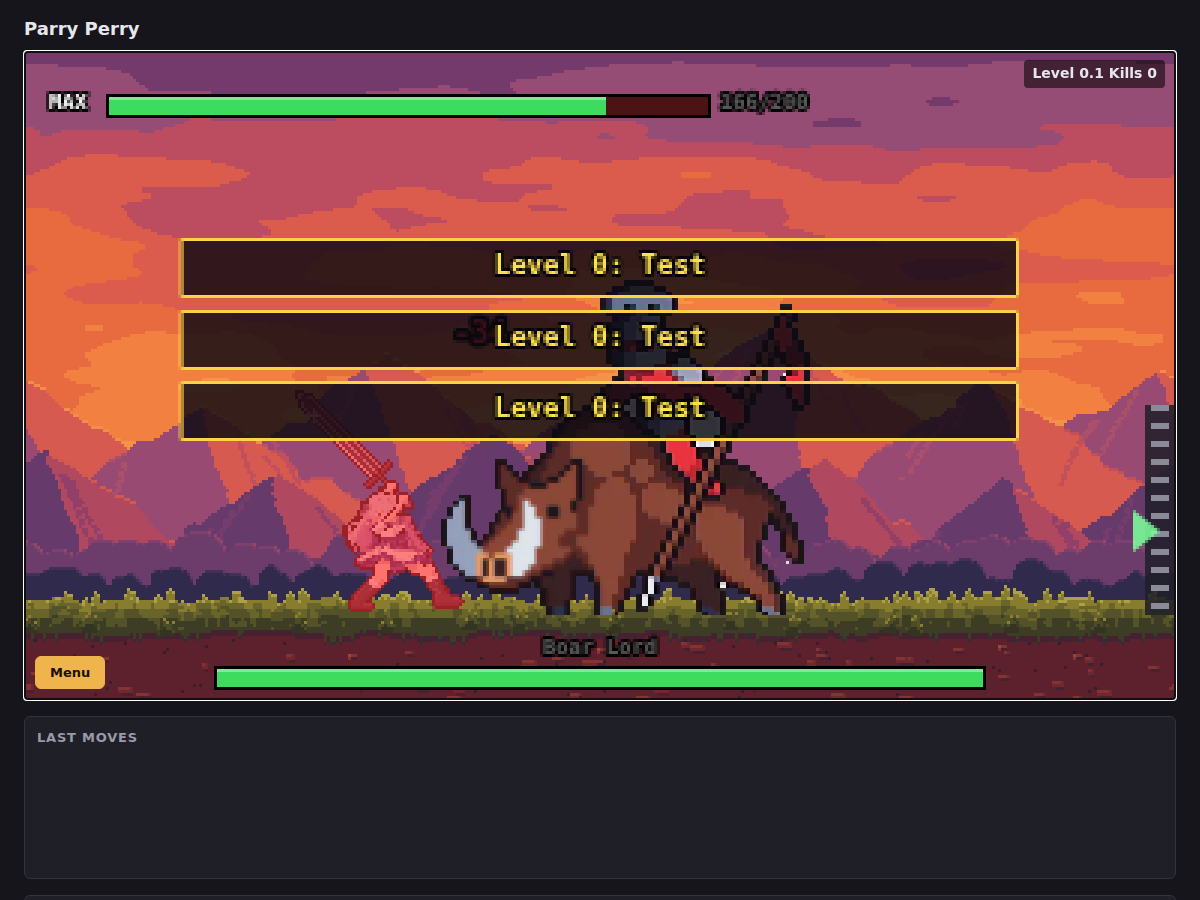
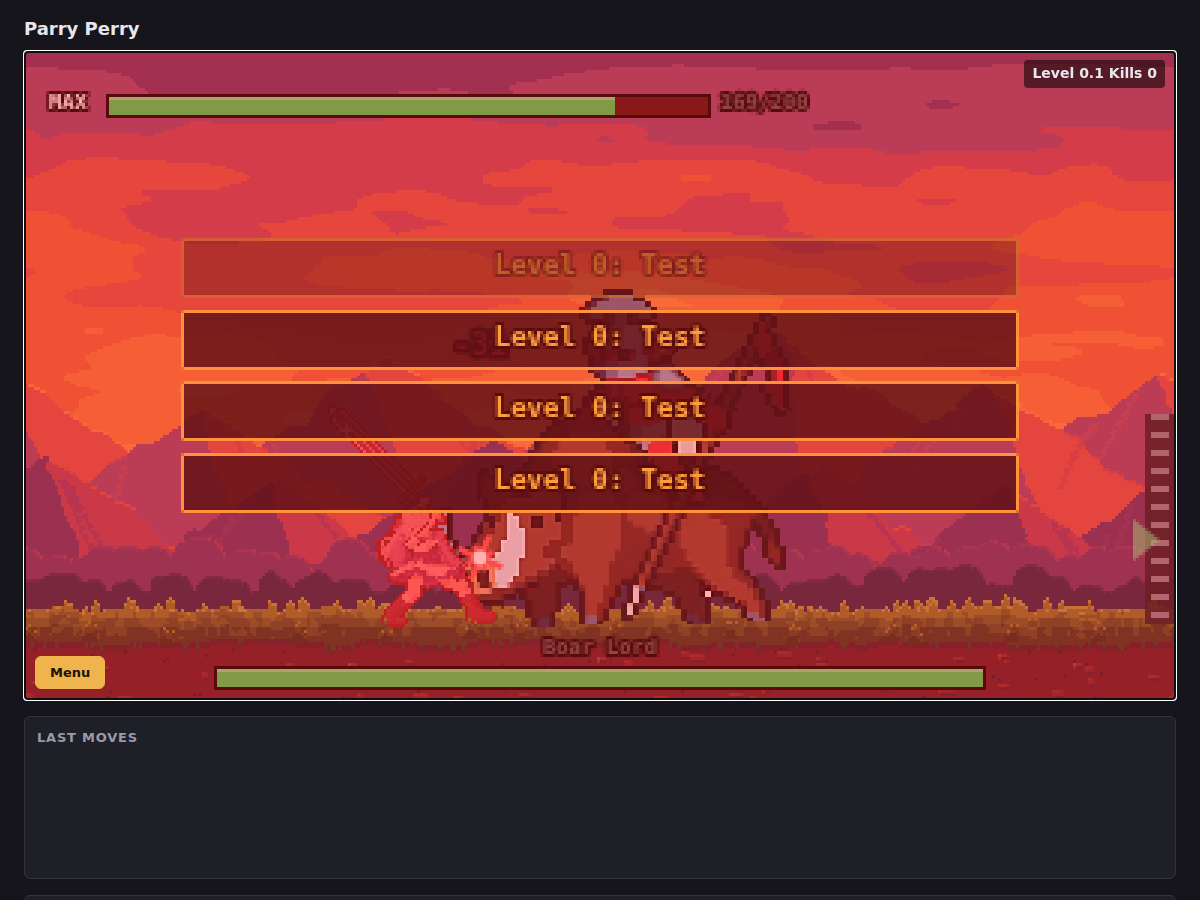
Hit feedback and a title screen (st80)
Claude-Session: https://claude.ai/code/session_01CvMu3aZWGEpLKmkyGEtNih

diff --git a/web/game.js b/web/game.js
@@ -879,6 +879,23 @@
   const FLOAT_MS = 900;
   const GREEN = '#3dff6e';
   function floater(wx, wy, text, color) { floaters.push({ wx, wy, text, color, t0: clock }); }
+  // ---- hit feedback: a brief freeze on impact (hit-stop), a starburst and sparks where it lands, a screen flash and shake on big hits
+  let freeze = 0, screenFlash = null, beamTick = false;
+  const flashes = [];                                            // {wx, wy, t0, ms, r, c}: starbursts
+  const hitStop = ms => { freeze = Math.min(160, Math.max(freeze, ms)); };
+  const shakeFor = (ms, amp) => { if (!rumble || rumble.amp * (1 - (clock - rumble.t0) / rumble.ms) < amp) rumble = { t0: clock, ms, amp }; };
+  function impact(wx, wy, dmg, color, killed) {
+    const big = dmg >= 100 || killed, mid = dmg >= 30;
+    flashes.push({ wx, wy, t0: clock, ms: big ? 260 : mid ? 200 : 150, r: big ? 26 : mid ? 18 : 12, c: color || '#fff6c0' });
+    burst(wx, wy, big ? 16 : mid ? 10 : 6, [color || '#fff6c0', '#ffd24a', '#ffffff']);
+    hitStop(big ? 130 : mid ? 80 : 45);
+    if (big) { screenFlash = { c: '#ffffff', a: 0.4, t0: clock, ms: 120 }; shakeFor(220, 3); }
+    else if (mid) shakeFor(140, 1.5);
+  }
+  function herHitFx() {                                          // she is hurt: a short freeze, a red flash, a shake and a red starburst
+    hitStop(100); shakeFor(200, 2.5); screenFlash = { c: '#ff2020', a: 0.35, t0: clock, ms: 200 };
+    flashes.push({ wx: bodyX(), wy: herY() + 22, t0: clock, ms: 220, r: 20, c: '#ff6060' });
+  }
   function hurtEnemy(e, dmg) {
     if (!alive(e)) return;
     aggro(e, false);                                  // being hit wakes a patrolling enemy, even for 0 damage
@@ -887,6 +904,7 @@
     const b = hurtOf(e);
     if (b) floater((b[0] + b[2]) / 2, b[3] + 4, '-' + dmg, RED);
     if (!e.tint || clock >= e.tint.until) e.tint = { color: RED, alpha: 0.55, until: clock + 110 };
+    if (b && !beamTick) impact((b[0] + b[2]) / 2, (b[1] + b[3]) / 2, dmg, null, e.hp <= 0);
     if (e.hp <= 0) kill(e);
   }
   const cheats = { invincible: false, infinite: false, nopit: false };   // set from the Cheats menu (L1+R1+L2+R2 in the pause menu reveals it)
@@ -967,7 +985,7 @@
       e.tint = { color: '#a0f', alpha: 0.4, until: clock + 400 };
     }
     const was = alive(e);
-    hurtEnemy(e, BEAM_DMG[b.kind] || 0);
+    beamTick = true; hurtEnemy(e, BEAM_DMG[b.kind] || 0); beamTick = false;
     if (was && !alive(e)) lootGem(e.x, 'super', e.fy);                 // killed by a beam: a Super Gem
     const push = BEAM_PUSH[b.kind] || 0;
     if (push && alive(e)) { e.x += b.face * push; e.base += b.face * push; e.shoved = clock; }   // shoved away along the beam
@@ -1019,6 +1037,7 @@
   function hint(text) { if (clock - lastHint > 2500) { lastHint = clock; banners.push({ title: text, t0: clock, ms: 2200 }); } }
 
   function startLevel(n, custom) {
+    freeze = 0; screenFlash = null; flashes.length = 0;
     story = null; storyAt = null;                    // any story page still open (a test hook starting a level) is dropped
     const def = custom || LV.levels[n - 1];
     if (!def) return;
@@ -1278,6 +1297,7 @@
           shots.splice(i, 1);
         } else if (clock >= invuln && !stun) {                     // a hit: damage, a short red flash and a small flinch
           hurtHer(sh.dmg || SHOT_DMG);
+          herHitFx();
           const p = push(14, 180); slide = newSlide(p, dir); lastPushT = clock;
           tint = { color: RED, alpha: 0.6, until: clock + 220 }; invuln = clock + 500; hits++;
           burst(sh.x, sh.y, 8, ['#ff2b2b', '#8fd0ff']);
@@ -1328,6 +1348,7 @@
     for (const e of enemies) { const hb = alive(e) && hurtOf(e); if (hb && distBox(cx, cy, hb) <= BOMB_R) { e.shoved = clock; hurtEnemy(e, BOMB_DMG); } }
     if (!rainbowOn() && distBox(cx, cy, herBox()) <= BOMB_R) {
       hurtHer(BOMB_DMG);
+      herHitFx();
       tint = { color: RED, alpha: 0.6, until: clock + 300 }; invuln = Math.max(invuln, clock + 500); hits++;
     }
     crateBlast(cx, cy, BOMB_R);
@@ -1910,6 +1931,7 @@
     e.push = { v: p.v * (e.x >= bodyX() ? 1 : -1), a: p.a };
     e.tint = { color: WHITE, alpha: 0.75, until: clock + ms };
     parries++;
+    flashes.push({ wx: (bodyX() + e.x) / 2, wy: herY() + 24, t0: clock, ms: 240, r: 22, c: '#bfe8ff' }); hitStop(90); screenFlash = { c: '#ffffff', a: 0.3, t0: clock, ms: 110 };
   }
   const KNOCK_UP = 5;
   const newSlide = (p, dir) => ({ v: p.v * dir, a: p.a, y: 0, vy: -Math.sqrt(2 * 0.0018 * KNOCK_UP) });   // a block or a shot hit: slid back and up KNOCK_UP px
@@ -1925,6 +1947,7 @@
     tint = { color: RED, alpha: 0.6, until: clock + ms };
     invuln = clock + ms + 400;
     hits++;
+    herHitFx();
     hurtHer(((AT && AT.dmg) || ENEMY_DMG[e.type] || EN[e.type].ai.dmg || 10) * (e.dmgMul || 1));
     if (hp <= 0) { stun.until = clock + KO_MS; floater(bodyX(), herY() + herTop() + 18, 'K.O.', RED); if (typeof triggerGameOver === 'function') triggerGameOver(); }
   }
@@ -1933,6 +1956,7 @@
     slide = newSlide(p, dir); lastPushT = clock;
     tint = { color: WHITE, alpha: 0.75, until: clock + 150 };
     blocks++;
+    flashes.push({ wx: bodyX() + hf() * 12, wy: herY() + 22, t0: clock, ms: 160, r: 12, c: '#ffffff' }); hitStop(40);
   }
   function stepStun(dt) {
     x += stun.v * dt;
@@ -2088,6 +2112,7 @@
     drawBeam(sx, sy);
     drawExplosions(sx, sy);
     drawParticles(sx, sy);
+    drawFlashes(sx, sy);
     drawShots(sx, sy);
     g.save();                                                     // the foreground grass is cut away over the pits
     if (curMap && curMap.pits.length) { g.beginPath(); g.rect(0, 0, V.w, V.h); for (const p of curMap.pits) g.rect(Math.round(p.x0 + sx), 0, p.x1 - p.x0, V.h); g.clip('evenodd'); }
@@ -2098,6 +2123,7 @@
     drawMeters();
     drawFloaters(sx, sy);
     drawBanners();
+    if (screenFlash) { const a = (clock - screenFlash.t0) / screenFlash.ms; if (a >= 1) screenFlash = null; else { g.globalAlpha = screenFlash.a * (1 - a); g.fillStyle = screenFlash.c; g.fillRect(0, 0, V.w, V.h); g.globalAlpha = 1; } }
     if (fadeUntil > clock) { g.globalAlpha = Math.min(1, (fadeUntil - clock) / FADE_MS); g.fillStyle = '#000'; g.fillRect(0, 0, V.w, V.h); g.globalAlpha = 1; }
     if (showBoxes) drawBoxes(sx, sy);
   }
@@ -2178,6 +2204,18 @@
       g.fillStyle = it && it.kind === 'Button' ? '#ff9f43' : '#ffd24a'; g.beginPath(); g.arc(X, Y, 8, 0, Math.PI * 2); g.fill();
       g.font = 'bold 7px monospace'; g.textAlign = 'center'; g.textBaseline = 'middle'; g.fillStyle = '#2a1a00';
       g.fillText(it && it.kind === 'Button' ? it.id : 'NEW', X, Y + 0.5);
+      g.restore();
+    }
+  }
+  function drawFlashes(sx, sy) {
+    for (let i = flashes.length - 1; i >= 0; i--) {
+      const f = flashes[i], a = (clock - f.t0) / f.ms;
+      if (a >= 1) { flashes.splice(i, 1); continue; }
+      const X = Math.round(f.wx + sx), Y = Math.round(groundY(sy) - f.wy), r = f.r * (0.4 + 0.6 * Math.min(1, a * 3)), inner = r * 0.25;
+      g.save(); g.globalAlpha = 1 - a; g.strokeStyle = f.c; g.lineWidth = a < 0.35 ? 2 : 1; g.beginPath();
+      for (let k = 0; k < 8; k++) { const ang = k * Math.PI / 4 + 0.4, len = k % 2 ? r * 0.6 : r; g.moveTo(X + Math.cos(ang) * inner, Y + Math.sin(ang) * inner); g.lineTo(X + Math.cos(ang) * len, Y + Math.sin(ang) * len); }
+      g.stroke();
+      if (a < 0.4) { g.fillStyle = '#fff'; g.beginPath(); g.arc(X, Y, r * 0.3 * (1 - a), 0, 7); g.fill(); }
       g.restore();
     }
   }
@@ -2558,6 +2596,7 @@
     x += shift;
   }
   function tickLevel(t, dt) {
+    if (freeze > 0) { freeze -= dt; readButtons(t); draw(); hud(); return; }   // (presses made during the freeze are still read)      // hit-stop: the world holds still for a moment
     clock += dt;                                      // game time: it does not run while a menu is open
     if (storyAt !== null && clock >= storyAt) { storyAt = null; P.state.story.double = true; playStory('double', () => { paused = false; }); return; }
     if (pitFall) {                                    // she fell into a pit: the rest of the world goes on while she drops out of sight
@@ -2682,7 +2721,7 @@
     if (assetsReady) {
       if (story) { clock += dt; drawStory(); }
       else if (screen === 'level') { if (!paused && !gameOver && !devOpen) tickLevel(t, dt); }
-      else { clock += dt; stepEffects(dt); drawOverworld(); hud(); }
+      else { clock += dt; stepEffects(dt); if (screen === 'title') drawTitle(); else drawOverworld(); hud(); }
     }
     requestAnimationFrame(frame);
   }
@@ -2690,6 +2729,41 @@
   // ---- the overworld: five level nodes on a path; a level opens when the one before it is beaten
   const OW_NODES = [[52, 150], [120, 112], [192, 146], [262, 104], [332, 138]];
   const nodeAt = i => OW_NODES[i % OW_NODES.length];
+  // ---- the title screen: drifting level 1 scenery, the logo with a sword slash sweeping through it, and Max on guard
+  function drawTitle() {
+    const W = V.w, H = V.h, T = clock;
+    g.fillStyle = '#10151c'; g.fillRect(0, 0, W, H);
+    for (const l of D.layers) drawLayer(img[l.src].im, -T * 0.02 * l.parallax, 0);
+    const gr = g.createLinearGradient(0, 0, 0, H); gr.addColorStop(0, 'rgba(10,8,24,0.55)'); gr.addColorStop(0.55, 'rgba(10,8,24,0.1)'); gr.addColorStop(1, 'rgba(10,8,24,0.55)');
+    g.fillStyle = gr; g.fillRect(0, 0, W, H);
+    // Max, idle, large, on the left
+    const m = D.moves.idle, cw = m.cell[0], ch = m.cell[1], total = m.frames.reduce((a, f) => a + f.ms, 0);
+    let t = T % total, k = 0; while (k < m.frames.length - 1 && t >= m.frames[k].ms) { t -= m.frames[k].ms; k++; }
+    const sc = 0.85, ax = 78, ay = H - 30;
+    g.fillStyle = 'rgba(0,0,0,0.35)'; g.beginPath(); g.ellipse(ax, ay + 2, 26, 4, 0, 0, 7); g.fill();
+    blit(img[m.sheet].im, k * cw, cw, ch, ax - m.anchor[0] * sc, ay - m.anchor[1] * sc, null, sc);
+    // the logo
+    g.save(); g.textAlign = 'center'; g.textBaseline = 'middle'; g.lineJoin = 'round';
+    const draw = (txt, cx, cy, size) => {
+      g.font = `bold ${size}px monospace`;
+      const gap = size * 0.78, x0 = cx - (txt.length - 1) * gap / 2;
+      for (let i = 0; i < txt.length; i++) {
+        const bob = Math.sin(T * 0.003 + i * 0.7) * 1.5, X = x0 + i * gap, Y = cy + bob;
+        g.lineWidth = 6; g.strokeStyle = '#1a0c06'; g.strokeText(txt[i], X + 1, Y + 2);
+        const fg = g.createLinearGradient(0, Y - size / 2, 0, Y + size / 2); fg.addColorStop(0, '#fff3b0'); fg.addColorStop(0.5, '#ffc83a'); fg.addColorStop(1, '#d8641c');
+        g.fillStyle = fg; g.lineWidth = 3; g.strokeStyle = '#3a1608'; g.strokeText(txt[i], X, Y); g.fillText(txt[i], X, Y);
+      }
+    };
+    const intro = Math.min(1, T / 700);
+    g.globalAlpha = intro; draw('PARRY', 232, 52 - (1 - intro) * 14, 34); draw('PERRY', 232, 88 - (1 - intro) * 14, 34); g.globalAlpha = 1;
+    // a sword slash sweeping across the logo, now and then
+    const sweep = (T % 4200) / 4200, sx0 = 60 + sweep * 3 * 360;
+    if (sweep < 0.34) { g.globalAlpha = 0.85 * Math.sin(sweep / 0.34 * Math.PI); g.strokeStyle = '#fff'; g.lineWidth = 2; g.beginPath(); g.moveTo(sx0 - 40, 120); g.lineTo(sx0 + 10, 28); g.stroke(); g.lineWidth = 1; g.beginPath(); g.moveTo(sx0 - 30, 120); g.lineTo(sx0 + 20, 28); g.stroke(); g.globalAlpha = 1; }
+    g.font = 'bold 8px monospace'; g.fillStyle = '#e8e0ff'; g.strokeStyle = '#000'; g.lineWidth = 3;
+    g.strokeText('A MAX WISHBONE ADVENTURE', 232, 112); g.fillText('A MAX WISHBONE ADVENTURE', 232, 112);
+    g.font = '7px monospace'; g.textAlign = 'right'; g.fillStyle = 'rgba(255,255,255,0.45)'; g.fillText(window.BIBOO_VER || '', W - 4, H - 6);
+    g.restore();
+  }
   function drawOverworld() {
     const n = LV.levels.length;
     g.fillStyle = '#10151c'; g.fillRect(0, 0, V.w, V.h);
@@ -2855,7 +2929,7 @@
     else { hideMenu(); ignoreHeldButtons(); canvas.focus(); }
     setStartLabel();
   }
-  if (UI) UI.init({ mainItems, closeMenu, moveRows, lockedCount, padStatus, gemRows, useGem, devItems,
+  if (UI) UI.init({ isTitle: () => screen === 'title' && !story, mainItems, closeMenu, moveRows, lockedCount, padStatus, gemRows, useGem, devItems,
     moveNotes: () => ['Keyboard: arrows = d-pad, Z = A (attack), X = B, A = X, S = Y, Up = jump. Shoulders: Q = L1, W = R1 (hold to recover), 1 = L2, 2 = R2. Enter, Space or Escape opens and closes this menu. Hold Left or Right while jumping to steer. Double tap Down on a platform to drop through it.',
                       'A gamepad works too, wired or Bluetooth, also on an Android phone in Chrome: A (bottom) jumps, Y (top) attacks, B is right, X is left. Click the game first if keys do nothing. Press H to show hurtboxes and hit shapes.'] });
   Promise.all(srcs.map(load)).then(() => {
@@ -2921,6 +2995,7 @@
     heavy: () => cur && (cur.id === 'heavy' || cur.id === 'jump_crash') ? { id: cur.id, lite: !!cur.lite, charged: cur.charged, height: cur.height } : null,
     herBox: () => herBox(),
     story: () => story ? { id: story.id, i: story.i } : null, skipStory: () => { if (story) storyEnd(); }, playStory: id => playStory(id, () => { paused = false; }),
+    fx: () => ({ freeze, flashes: flashes.length, flash: !!screenFlash, shake: !!rumble }),
     powers: () => ({ flying: !!flight, rainbow: rainbowOn(), ult: !!ult, y: herY(), hp }),
     combat: () => ({ stun: !!stun, hits, blocks, parries, tint: tint && clock < tint.until ? tint.color : null }),
     setRespawn: on => { respawnOn = on; },

diff --git a/web/tests/feedback.test.js b/web/tests/feedback.test.js
@@ -1,0 +1,36 @@
+/* Hit feedback (hit-stop, starbursts, flash, shake) and the title screen. Run: NODE_PATH=$(npm root -g) node web/tests/feedback.test.js */
+const path = require('path');
+const { chromium } = require('playwright');
+(async () => {
+  const b = await chromium.launch(), page = await b.newPage({ viewport: { width: 1000, height: 640 } });
+  const errors = []; page.on('pageerror', e => errors.push(String(e)));
+  await page.goto('file://' + path.resolve(__dirname, '../index.html'));
+  await page.waitForFunction(() => document.getElementById('btn-start') && window.bibooGame, null, { timeout: 20000 });
+  const ev = j => page.evaluate(j), wait = ms => page.waitForTimeout(ms), res = [];
+  const check = (n, ok, d) => { res.push(ok); console.log(`${ok ? 'PASS' : 'FAIL'}  ${n}${ok ? '' : '  ' + JSON.stringify(d)}`); };
+  // title screen
+  check('the title menu sits in the title layout', await ev("document.getElementById('start-menu').classList.contains('title')"), null);
+  check('the title screen has no errors after drawing', errors.length === 0, errors);
+  await wait(800);
+  // melee hit feedback
+  await ev("bibooGame.resetAll(); bibooGame.custom({ enemies: [{ type: 'orc', x: 85, fy: 0 }] })"); await wait(600);
+  await ev('bibooGame.setX(40)');
+  let seen = { freeze: false, flashes: false };
+  await page.keyboard.down('KeyZ'); await wait(30); await page.keyboard.up('KeyZ');
+  for (let i = 0; i < 40; i++) { const f = await ev('bibooGame.fx()'); if (f.freeze > 0) seen.freeze = true; if (f.flashes > 0) seen.flashes = true; await wait(15); }
+  const hp = (await ev('bibooGame.state().foes[0].hp'));
+  check('the orc was hit', hp < 100000 && (await ev('bibooGame.state().foes[0].hp')) < (await ev("bibooGame.state().foes[0].maxHp || 1e9")), hp);
+  check('a hit freezes the game briefly (hit-stop)', seen.freeze, seen);
+  check('a hit makes a starburst', seen.flashes, seen);
+  // her getting hit: red flash, shake, stop
+  await ev('bibooGame.custom({ enemies: [] })'); await wait(400);
+  await ev('bibooGame.addShot(10, 20, 0.05, 0)');
+  let her = { flash: false, freeze: false };
+  for (let i = 0; i < 40; i++) { const f = await ev('bibooGame.fx()'); if (f.flash) her.flash = true; if (f.freeze > 0) her.freeze = true; await wait(15); }
+  check('her being hit flashes the screen and freezes', her.flash && her.freeze, her);
+  // the game is not stuck frozen
+  await wait(500);
+  check('the freeze always ends', (await ev('bibooGame.fx()')).freeze <= 0, await ev('bibooGame.fx()'));
+  console.log(errors.length ? errors : '');
+  await b.close(); process.exit(res.every(Boolean) && !errors.length ? 0 : 1);
+})();

diff --git a/web/index.html b/web/index.html
@@ -89,6 +89,13 @@
     background: url('assets/moves/charge.png') 0 0 / auto 93px no-repeat;
     image-rendering: pixelated;
   }
+  #start-menu.title { place-items: end end; padding: 0 12px 10px 0; }
+  #start-menu.title .veil { display: none; }
+  #start-menu.title .panel { min-width: 200px; padding: 10px 14px; background: rgba(14,12,20,.8); }
+  #start-menu.title h2, #start-menu.title .hero { display: none; }
+  #start-menu.title p { margin: 0 0 8px; font-size: 12px; }
+  #start-menu.title .actions { gap: 6px; }
+  #start-menu.title button { padding: 7px 14px; }
   #start-menu.story { place-items: end center; padding-bottom: 6px; }
   #start-menu.story .veil { display: none; }
   #start-menu.story .panel { width: min(94%, 760px); padding: 10px 16px; text-align: left; background: rgba(14,12,20,.88); }
@@ -155,16 +162,16 @@
     <pre id="monitor"></pre>
   </section>
 </main>
-<script>window.BIBOO_VER = 'st79';   /* cache buster: change it whenever the game or its assets change */</script>
-<script src="assets/data.js?v=st79"></script>
-<script src="assets/moves_extra.js?v=st79"></script>
-<script src="assets/creatures.js?v=st79"></script>
-<script src="assets/arenas.js?v=st79"></script>
-<script src="assets/bgs.js?v=st79"></script>
-<script src="input.js?v=st79"></script>
-<script src="progress.js?v=st79"></script>
-<script src="ui.js?v=st79"></script>
-<script src="levels.js?v=st79"></script>
-<script src="game.js?v=st79"></script>
+<script>window.BIBOO_VER = 'st80';   /* cache buster: change it whenever the game or its assets change */</script>
+<script src="assets/data.js?v=st80"></script>
+<script src="assets/moves_extra.js?v=st80"></script>
+<script src="assets/creatures.js?v=st80"></script>
+<script src="assets/arenas.js?v=st80"></script>
+<script src="assets/bgs.js?v=st80"></script>
+<script src="input.js?v=st80"></script>
+<script src="progress.js?v=st80"></script>
+<script src="ui.js?v=st80"></script>
+<script src="levels.js?v=st80"></script>
+<script src="game.js?v=st80"></script>
 </body>
 </html>

diff --git a/web/ui.js b/web/ui.js
@@ -79,8 +79,9 @@
     if (!box) return;
     box.textContent = '';
     const hero = document.querySelector('#start-menu .hero');
-    const smenu = $('start-menu'); if (smenu) smenu.classList.toggle('story', UI.view === 'message' && !!UI.opts.story);   // story pages sit low so the scene shows
-    if (hero) hero.style.display = UI.view === 'main' || (UI.view === 'message' && !UI.opts.story) ? '' : 'none';
+    const smenu = $('start-menu'); if (smenu) smenu.classList.toggle('title', UI.view === 'main' && !!(api.isTitle && api.isTitle()));
+    if (smenu) smenu.classList.toggle('story', UI.view === 'message' && !!UI.opts.story);   // story pages sit low so the scene shows
+    if (hero) hero.style.display = (UI.view === 'main' && !(api.isTitle && api.isTitle())) || (UI.view === 'message' && !UI.opts.story) ? '' : 'none';
     const o = UI.opts;
     if (UI.view === 'main') {
       title.textContent = o.title || 'Parry Perry';

diff --git a/Current_Work.md b/Current_Work.md
@@ -401,3 +401,7 @@ Plan and status (each step is pushed on its own; resume from the first unchecked
 - Passing: ankhs, asset_retry, boss_arena, boss_immunity, chain, cheats, combo_shards, creatures, enemy_jump_dash_hop, energy_charge, goblin_pattern, input, level1_door, level2, level3, level5, maxhp_kick_hop, meteor_input, orc_jump, platform_edge, powers, progression (rewritten for the Cheats menu and prologue), pushback, save_flow, sky_taunt, story, unlock_items, unlock_points, unlock_walkthrough (27 unlocks), unlocks.
 - Failing before this update too (verified on commit 4f457f9, stale expectations from older input and balance changes, not regressions): browser.test.js (15 old input checks), combat.test.js (22), meters.test.js (7), hazards.test.js (4), enemy_reach.test.js (3), turn_stun.test.js (1, air hit). They need rewriting against the current controls.
 - startLevel now drops any open story page so test hooks can start levels after "New game".
+
+### Hit feedback and title screen (st80)
+- Hit feedback in game.js: `hitStop(ms)` freezes the world (tickLevel returns early but still reads buttons so presses are not lost), `impact()` adds a starburst (`flashes`), sparks, a white screen flash and shake on big hits, `herHitFx()` for her being hurt (red flash, shake, stop), parry and block sparks. Beam ticks are excluded (`beamTick`). Test hook `bibooGame.fx()`. Test: feedback.test.js.
+- Title screen: `drawTitle()` (scenery, big idle Max, animated PARRY PERRY logo with a sword slash sweep, tagline, version stamp). The menu uses the `.title` layout (bottom right, no hero) via `api.isTitle`.
